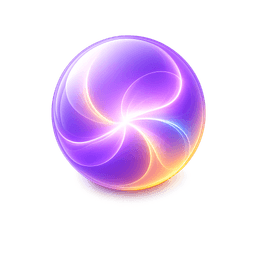
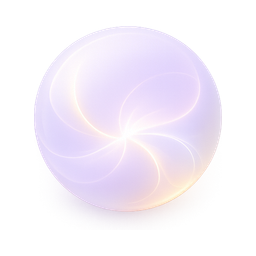
style(nav): orbe douce/givrée qui se fond dans l'UI
Remplace l'orbe par la version adoucie (lavande pâle givrée, swirl + or très
subtils) qui s'accorde à l'interface crème/violet. public/nav-orb.png régénéré
(grande orbe découpée de la compo ChatGPT, recentrée, 256px). Côté code :
retrait de la désaturation (l'image est déjà douce), ombre au repos plus légère.

diff --git a/src/components/NavOrb.tsx b/src/components/NavOrb.tsx
@@ -9,9 +9,10 @@
    • Tap court  → ouvre le chat global (bottom sheet).
    • Appui long → enregistrement vocal → transcription → message envoyé.
 
-   Visuel : PNG transparent (public/nav-orb.png) — verre violet + rubans
-   façon Siri + halo doré, redimensionné en 256px (~12 Ko). Les animations
-   (scale/pulses/vumètre/spinner) restent en CSS par-dessus.
+   Visuel : PNG transparent (public/nav-orb.png) — verre givré lavande pâle +
+   swirl doux + touche d'or (version « douce », pensée pour se fondre dans l'UI),
+   redimensionné en 256px. Les animations (scale/pulses/vumètre/spinner) restent
+   en CSS par-dessus.
    ════════════════════════════════════════════════════════════════════ */
 
 import { useCallback, useRef, useState } from "react";
@@ -117,12 +118,12 @@ export default function NavOrb({ size = 52 }: { size?: number }) {
           style={{
             width: "106%", height: "106%", left: "-3%", top: "-3%",
             objectFit: "contain",
-            // Calmée pour se fondre dans l'UI (moins voyante que les icônes ne
-            // sont fines/plates) : AUCUN halo au repos, juste une ombre douce et
-            // une légère désaturation. Le glow ne revient qu'à l'enregistrement.
+            // L'image est déjà douce/givrée (faite pour se fondre dans l'UI) :
+            // pas de désaturation ni de halo au repos, juste une ombre légère.
+            // Le glow ne revient qu'à l'enregistrement (retour visuel).
             filter: recording
-              ? "drop-shadow(0 0 8px rgba(167,139,250,0.5))"
-              : "saturate(0.9) drop-shadow(0 1px 3px rgba(80,60,130,0.20))",
+              ? "drop-shadow(0 0 8px rgba(167,139,250,0.45))"
+              : "drop-shadow(0 1px 3px rgba(120,100,160,0.18))",
           }}
         />
 
